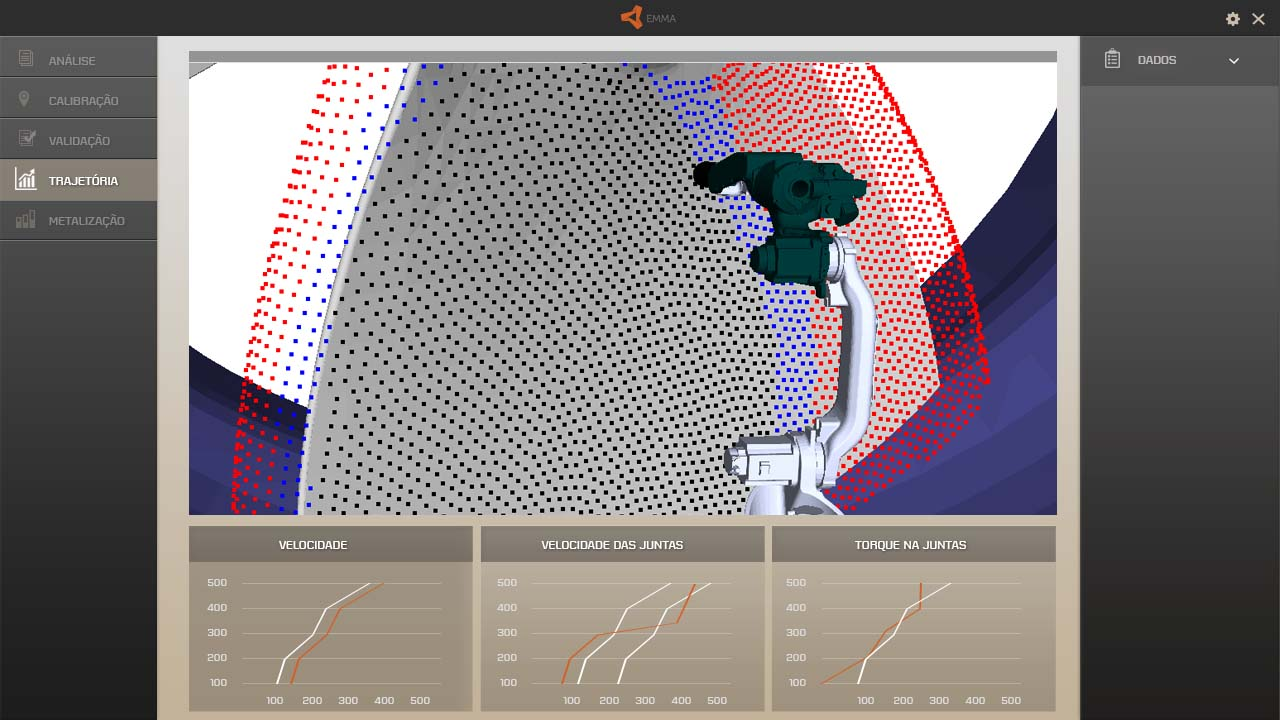
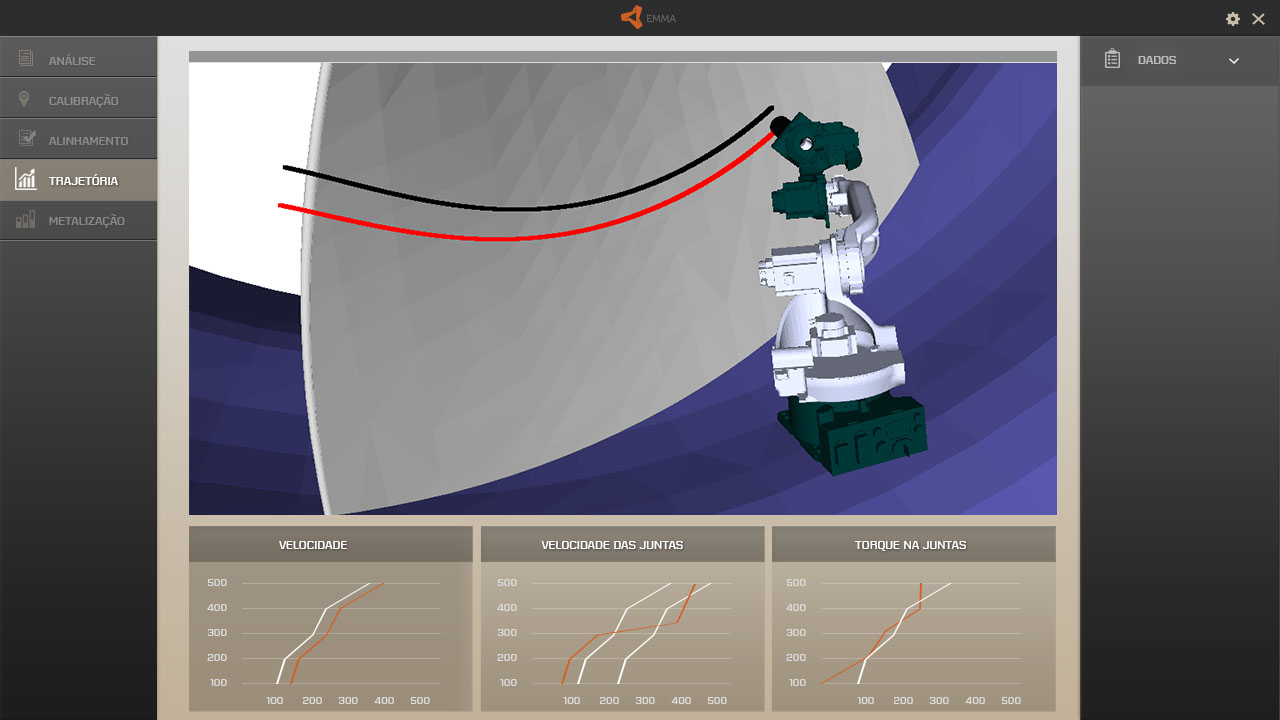
relatorio de interface versão final.

Changed region(s): [[0.125, 0.0611, 0.8438, 0.7333], [0.0312, 0.1833, 0.0938, 0.2139], [0.125, 0.0917, 0.1562, 0.1222]]

diff --git a/document.tex b/document.tex
@@ -275,13 +275,14 @@ A (fig.\ref{fig:Interface_analise}) mostra a interface gráfica para usuário da
 tarefa de análise, que tem como objetivo avaliar o desgaste mecânico de pás
 fornecendo um relatório para seu revestimento posterior. Assim a informação do laser scanner 3D
 fornece medidas do ambiente sob a forma de nuvem de pontos para que se tenha um
-detalhamento da pá analisada. Ademais, também é possível adicionar informação
-externa sob a forma de fotografia para dar mais detalhes e precisão a
-determinado desgaste mecânico.
+detalhamento da pá analisada. 
+
+Ademais, também é possível adicionar informação externa sob a forma de
+fotografia para dar mais detalhes e precisão a determinado desgaste mecânico.
 Assim, através do uso de ferramentas disponibilizadas na área destinada a meta
-do software, o usuário pode selecionar e visualizar áreas onde existem
-danos, fazendo anotações e descrevendo ações necessárias para a manutenção de
-determinada pá.
+do software, o usuário pode selecionar áreas específicas da pá, pode visualizar
+áreas onde existem danos com mais ou menos prximidade, e também fazer
+anotações para descrever ações necessárias na manutenção de determinada pá. 
 
 \subsubsection {Alinhamento}
 
@@ -294,15 +295,20 @@ determinada pá.
 \end{figure} 
 
 A (fig.\ref{fig:Interface_validacao}) mostra a interface gráfica para usuário
-da tarefa de alinhamento. A tarefa de alinhamento permite que se estime novas
-posições do manipulardor em relação a pá, permitindo que o robô
+da tarefa de alinhamento. A tarefa de alinhamento tem o objetivo estimar
+novas posições do manipulardor em relação a pá, permitindo que o robô
 seja posicionado de forma ótima. Ao reposicionar o robô na interface é possível
 recalcular sua posição, descobrindo onde o manipulador terá a maior cobertura
 para realizar o revestimento das áreas determinadas pela análise.
-Na interface se encontram ferramentas que permitem a movimnetação do robô em
-eixo determinado para o cálculo. Assim, o susário poderá reposicionar o robô de
-acordo, obtendo as informações necessárias a calibracão e consequentemente o
-cálculo de trajetórias.
+
+Na interface de usuário ao lado esquerdo temos o menu de navegação indicando a
+tarefa em questão. Ao centro, na área de metas, vemos o manipulador e pá, sendo
+permitido o reposicionamento do manipulador para que para que o erro da
+transformada seja recalculado. A direita, na área de funcionalidades, podemos
+ver o valor do erro da transformada, que uma vez estipulado aciona o valor do 
+erro de validação. Na área destinada as saídas, as posições do manipulador em
+relaçàoa pá a medida que ele é movimentado.
+
 
 
 \subsubsection {Calibração}
@@ -317,11 +323,17 @@ cálculo de trajetórias.
 
 A (fig.\ref{fig:Interface_calibracao}) mostra a interface gráfica para usuário
 da tarefa de calibração, que tem como objetivo mostrar a posição relativa do
-manipulador em relação a pá. Caso o erro seja maior que o limite determinado
-este valor e mostrado em vermelho, sinalizando novas medições o laser scanner
-para determinar posiçào que satisfaça o sistema e permita o calculo de
-trajetória.
+manipulador em relação a pá. Nesta tarefa, o sistema mede as distâncias as entre
+os objetos da operação para que se possa obter o erro da transformada, o valor
+que determina se a trajetória do manipulador pode ser feita ou não. 
 
+Na interface ao lado esquerdo, temos a listagem de tarefas, sendo a tarefa em
+questão em destaque indicando sua utilização. Ao centro, na área de metas, vemos os
+objetos medidos; manipulador e pá. Ao lado direito, na área de funcionalidade, 
+vemos o erro da transformada, sendo possível sua validação ou não.
+Caso o erro seja maior que o limite determinado este valor e mostrado em
+vermelho, sinalizando novas medições necessárias. Abaixo, temos o
+gráfico de funcionamento do erro da transformada.
 
 \subsubsection {Trajetória}
 
@@ -337,8 +349,39 @@ A (fig.\ref{fig:Interface_trajetoria}) mostra a interface gráfica para usuário
 da tarefa de trajetória. O objetivo desta tarefa é a de determinar a região onde
 o manipulador pode atuar no revestimento. Desta forma o sistema recebe
 informações do cálculo de erro de transformada, ou seja, a posição relativa
+entre pá e manipulador para a partir destas distâncias para calcular a área de
+atuação do manipulador que efetuará o revestimento.
+
+Na interface ao lado esquerdo temos o menu de navegação, ao centro na área de
+metas vemos o manipulador e a pá com a indicação da trajetória a ser percorrida
+pelo manipulador. Abaixo na parte da saída podemos ver os gráficos de
+velocidade do manipulador, a velocidade de suas juntas e seu torque. 
+
+\subsubsection {Metalização}
+
+\begin{figure}[H]
+\begin{center}
+  \includegraphics[width=\columnwidth]{figs/Execucao.jpg}
+  \caption{Modelo conceitual de interface de usuário função de metalização.}
+  \label{fig:Interface_execucao}
+\end{center}
+\end{figure} 
+
+A (fig.\ref{fig:Interface_execucao}) mostra a interface gráfica para usuário
+da tarefa de metalização. O objetivo desta tarefa é a de determinar a região
+onde o manipulador pode atuar no revestimento. Desta forma o sistema recebe
+informações do cálculo de erro de transformada, ou seja, a posição relativa
 entre pá e manipulador para a partir destas distâncias calcular a área de
 atuação do manipulador que efetuará o revestimento.
+
+Na interface ao lado esquerdo temos o menu de navegação, ao centro na área de
+metas vemos simultaneamente a simulação, e a metalização em tempo real. A
+direita, na área de funcionalidades podemos ver o progresso de ambas que
+indica, além do botão para uma aeventualal intervençào da operação.
+Abaixo na parte da saída podemos ver os gráficos de velocidade do manipulador, a
+velocidade de suas juntas e seu torque para se ter certeza de que a operação
+ocorre de acordo com o planejado.
+
 
 \bibliographystyle{unsrt}
 \bibliography{main} 
